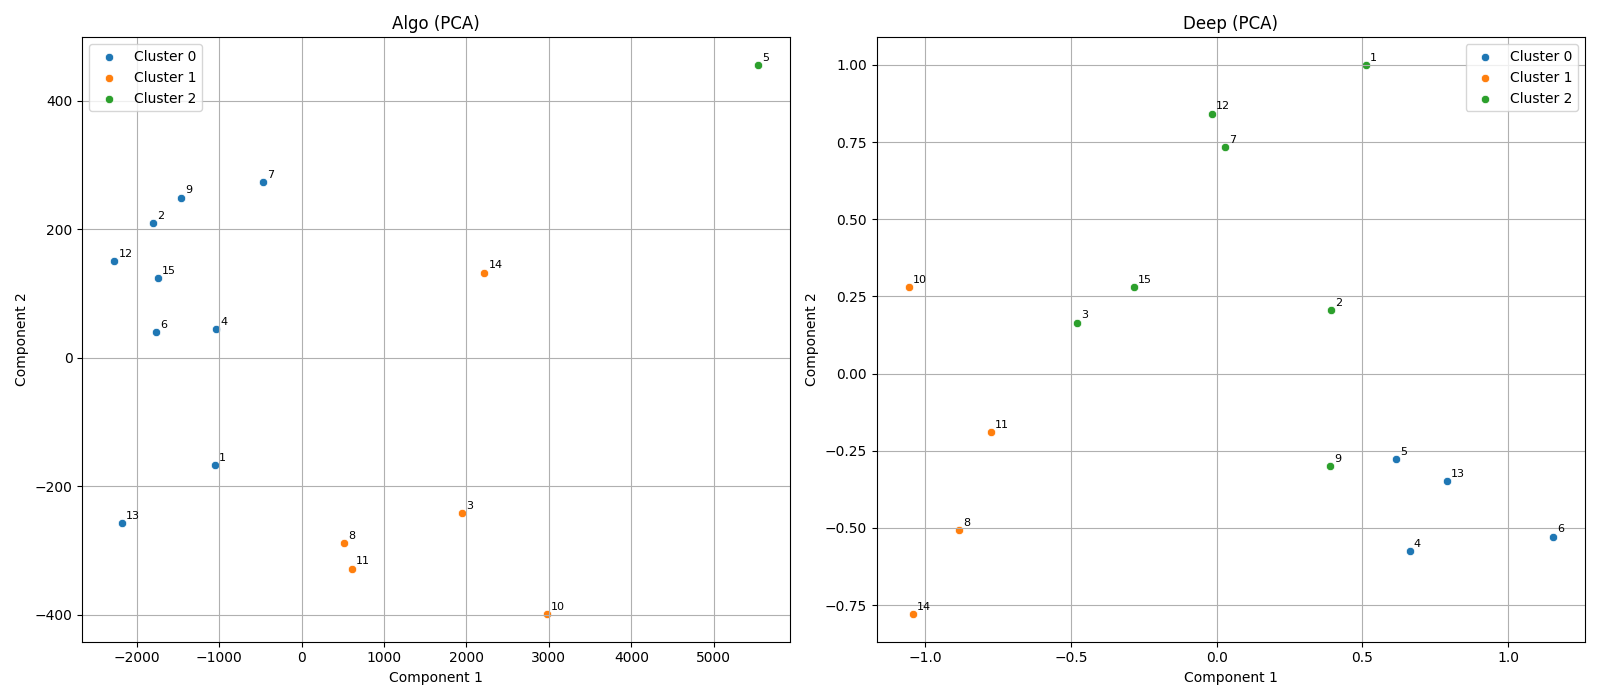
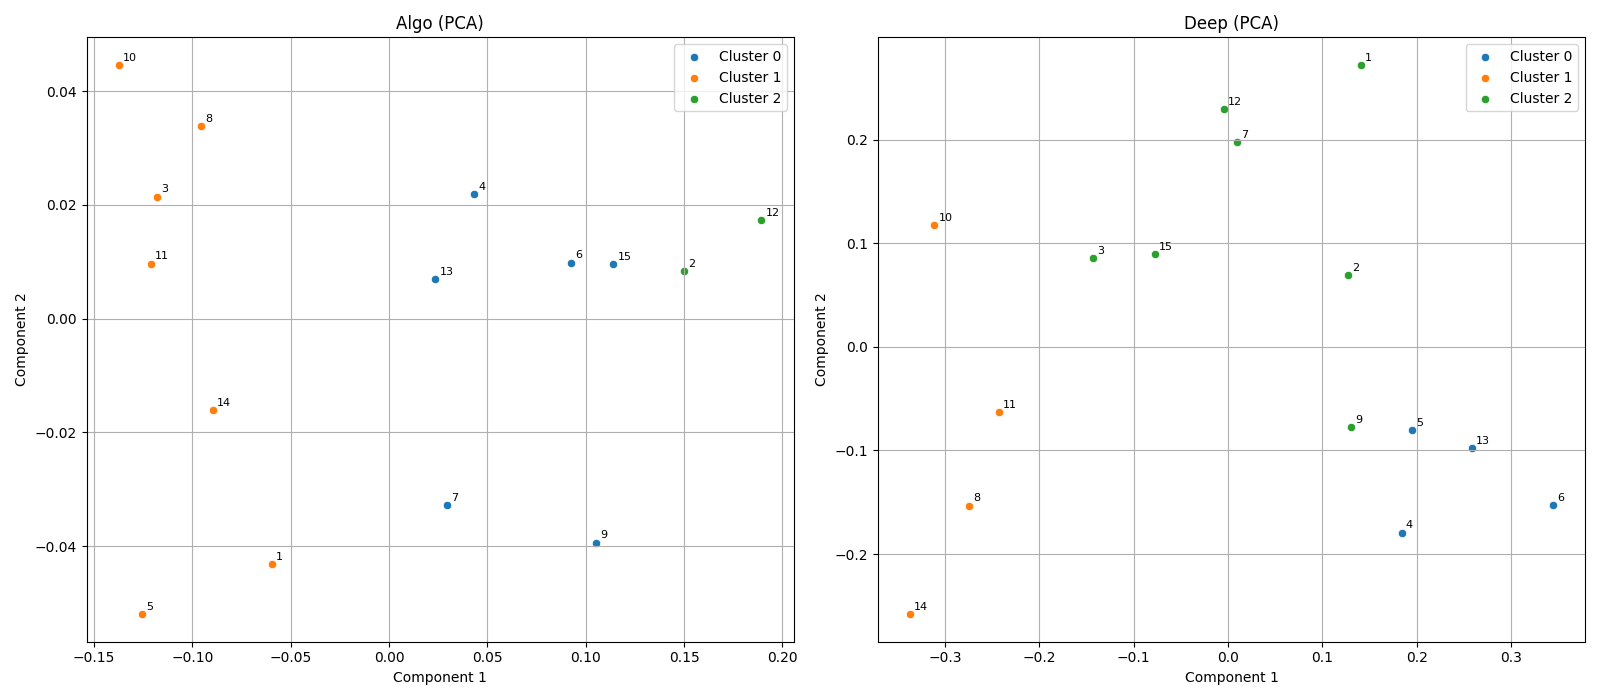
add normalize to use Spherical K-Means

diff --git a/src/vibesort/base_sorter.py b/src/vibesort/base_sorter.py
@@ -4,6 +4,7 @@ from typing import List
 
 import numpy as np
 from sklearn.cluster import KMeans
+from sklearn.preprocessing import normalize
 from tqdm import tqdm
 
 from vibesort.utils import get_audio_file_paths, save_playlists
@@ -86,9 +87,15 @@ class BaseVibeSorter(abc.ABC):
         :param num_clusters: Number of clusters to form.
         :return: List of cluster labels for each feature vector.
         """
+        # Convert list of features to a NumPy array
         features_array = np.array(features)
+
+        # Normalize the feature vectors to unit norm so that the cosine similarity is preserved.
+        normalized_features = normalize(features_array, norm="l2")
+
+        # Run k-means on the normalized vectors
         kmeans = KMeans(n_clusters=num_clusters, random_state=42)
-        return kmeans.fit_predict(features_array)
+        return kmeans.fit_predict(normalized_features)
 
     @abc.abstractmethod
     def extract_features_for_file(self, path: str) -> np.ndarray:

diff --git a/scripts/visualize.py b/scripts/visualize.py
@@ -5,6 +5,7 @@ import matplotlib.pyplot as plt
 import numpy as np
 from sklearn.decomposition import PCA
 from sklearn.manifold import TSNE
+from sklearn.preprocessing import normalize
 
 
 def reduce_dimensions(features: np.ndarray, method: str = "pca") -> np.ndarray:
@@ -107,9 +108,11 @@ def main() -> None:
 
     # Extract features and labels for each sorter
     for sorter_name, sorter in sorters.items():
+        # TODO: violated information expert principle
         features = [sorter.extract_features_for_file(p) for p in file_paths]
         labels = sorter._cluster_features(features, num_clusters)
-        features_dict[sorter_name] = np.array(features)
+        normalized_features = normalize(features, norm="l2")
+        features_dict[sorter_name] = np.array(normalized_features)
         labels_dict[sorter_name] = np.array(labels)
 
     # Perform dimensionality reduction and plot comparisons for both PCA and t-SNE.
